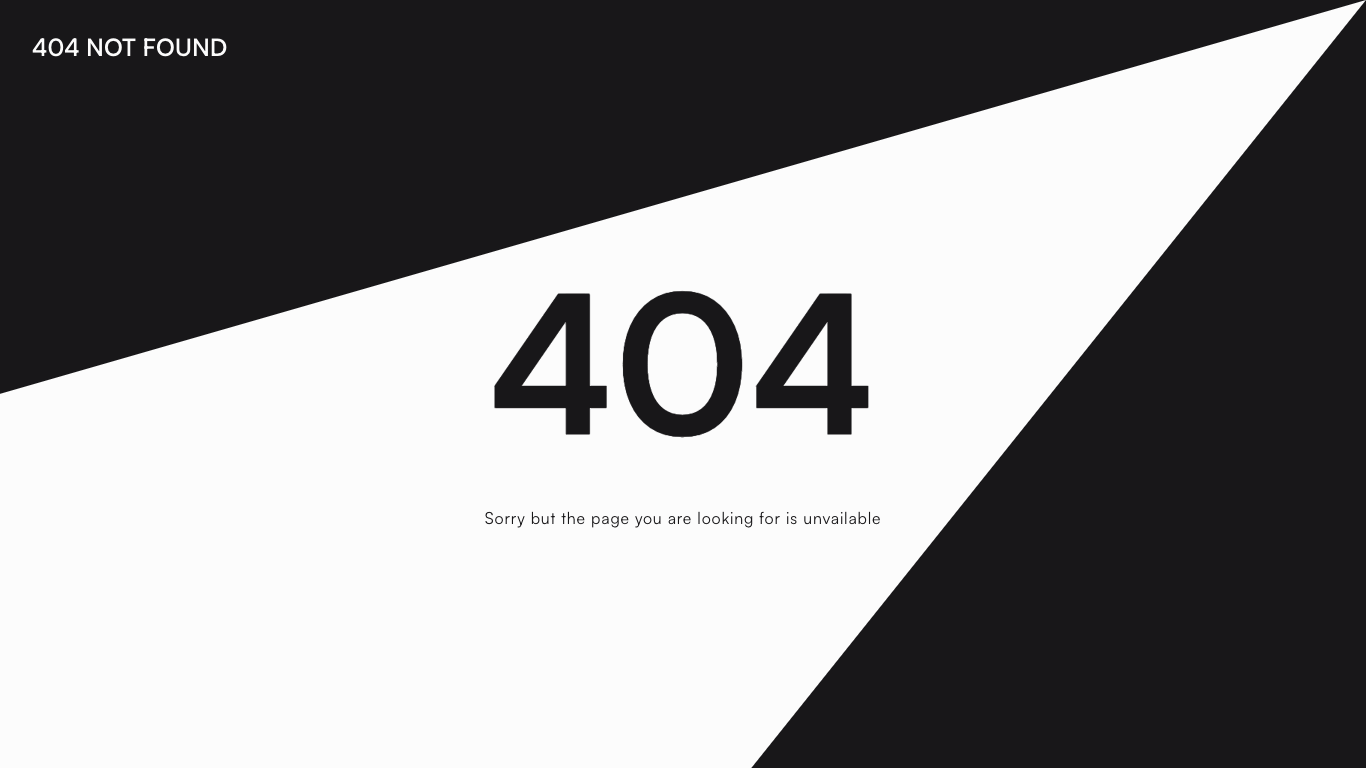
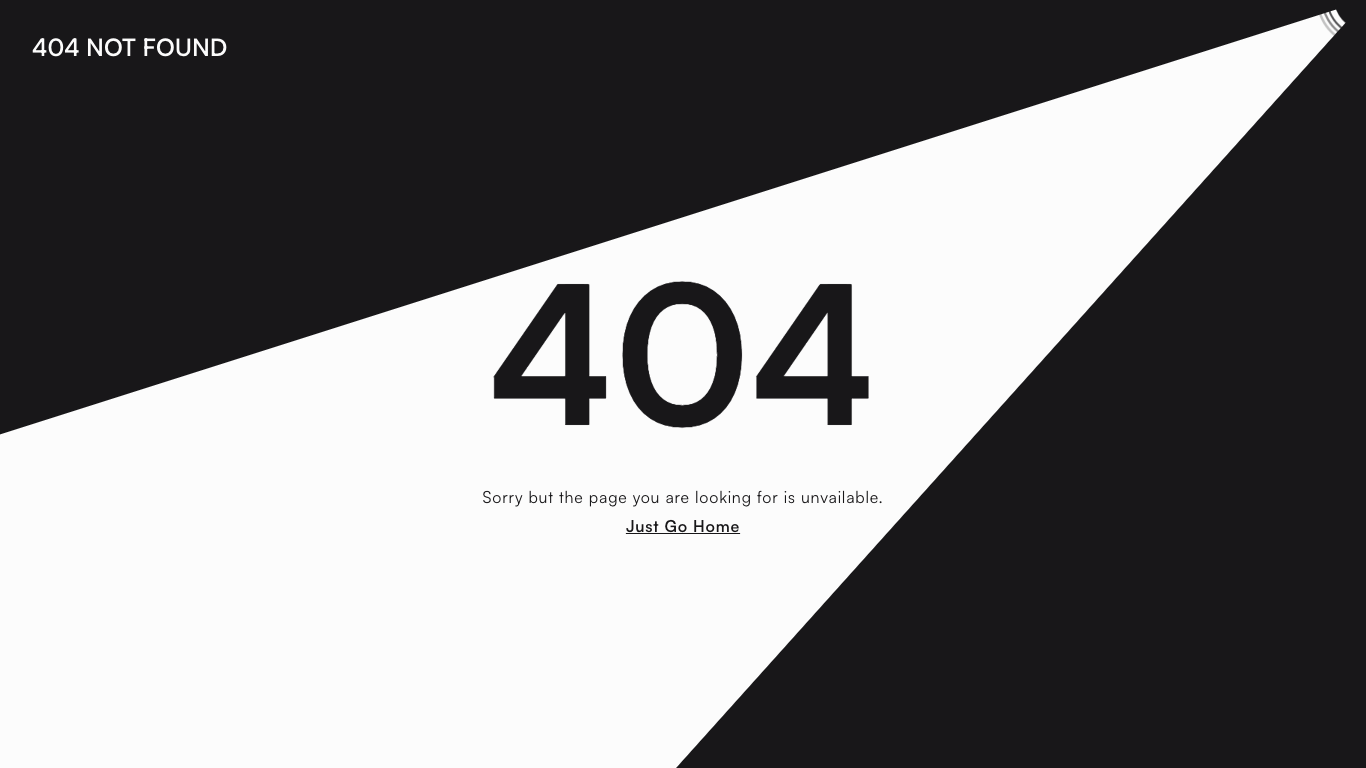
micro adjustment 🎉

diff --git a/src/public/js/app.js b/src/public/js/app.js
@@ -415,6 +415,7 @@ M.Sp = t => t.stopPropagation()
                         p:{
                             y:[105,0,'%']
                         },
+                        delay:750,
                         d:1000,
                         e:'o3',
                     })
@@ -424,7 +425,7 @@ M.Sp = t => t.stopPropagation()
                             y:[0,-105,'%']
                         },
                         d:750,
-                        delay:1750,
+                        delay:2500,
                         e:'o3',
                     })
                     .add({
@@ -442,7 +443,7 @@ M.Sp = t => t.stopPropagation()
                             y:[0,-105,'%']
                         },
                         d:750,
-                        delay:1750,
+                        delay:2500,
                         e:'o3',
                     })
                     .add({

diff --git a/README.md b/README.md
@@ -1,3 +1,2 @@
 # 404 NOT FOUND
-<a href="https://404-la2spaille.myhostme.space/" style="color:#181719;text-decoration:underline;margin:0 0 24px;">404-la2spaille.myhostme.space</a> <br>
 ![screenshot-desktop](preview.png)
